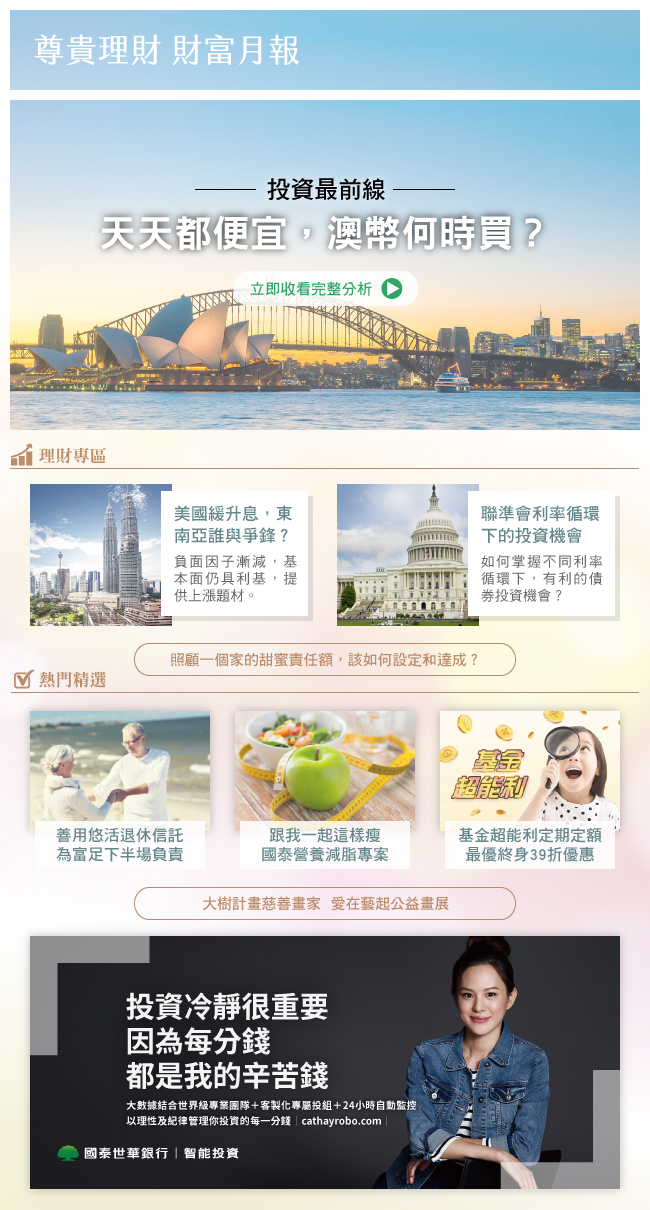
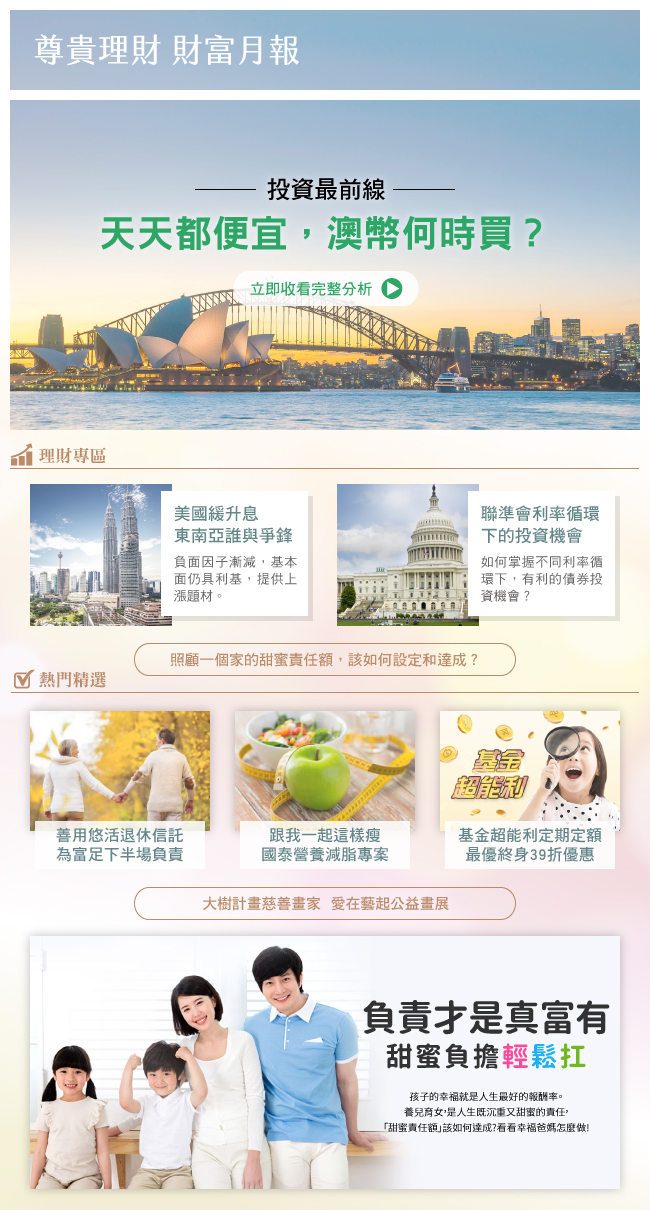
update

diff --git a/monthly-report-201902/index.html b/monthly-report-201902/index.html
@@ -126,8 +126,8 @@
 " target="_blank" alt="善用悠活退休信託 為富足下半場負責">
   <area shape="rect" coords="235,711,416,871" href="https://www.cathay-hcm.com.tw/tw/page/nutrition.html?utm_source=newsletter&utm_medium=email&utm_campaign=201902財富月報&utm_content=201902財富月報&CUB_SRC=WM_EDM&CUB_CHL1=BAN&CUB_CHL2=01&MA_TK=WM128&CUB_DT=20190210" target="_blank" alt="跟我一起這樣瘦 國泰營養減脂專案">
   <area shape="rect" coords="440,710,622,870" href="https://www.cathaybk.com.tw/cathaybk/promo/event/fund/cathayfund/super/index.html?CUB_SRC=WM_EDM&CUB_CHL1=BAN&CUB_CHL2=01&MA_TK=WM128&CUB_DT=20190210" target="_blank" alt="基金超能利，累計扣款13次，終身優惠39折">
-  <area shape="rect" coords="30,935,621,1189" href="https://www.cathayrobo.com/welcome?CUB_SRC=WM_EDM&CUB_CHL1=BAN&CUB_CHL2=01&MA_TK=WM128&CUB_DT=20190210" target="_blank" alt="ROBO智能投資">
-  <area shape="rect" coords="135,643,517,676" href="http://topic.parenting.com.tw/event/2019/cathaybk/index.html?CUB_SRC=WM_EDM&CUB_CHL1=BAN&CUB_CHL2=01&MA_TK=WM128&CUB_DT=20190210" target="_blank" alt="照顧一個家的甜蜜責任額，該如何設定和達成？">
+  <area shape="rect" coords="30,935,621,1189" href="https://topic.parenting.com.tw/event/2019/cathaybk/index.html?CUB_SRC=WM_EDM&CUB_CHL1=BAN&CUB_CHL2=01&MA_TK=WM128&CUB_DT=20190210" target="_blank" alt="負責才是真富有">
+  <area shape="rect" coords="135,643,517,676" href="https://topic.parenting.com.tw/event/2019/cathaybk/index.html#GOAL?CUB_SRC=WM_EDM&CUB_CHL1=BAN&CUB_CHL2=01&MA_TK=WM128&CUB_DT=20190210" target="_blank" alt="照顧一個家的甜蜜責任額，該如何設定和達成？">
 </map>
 </body>
 </html>
